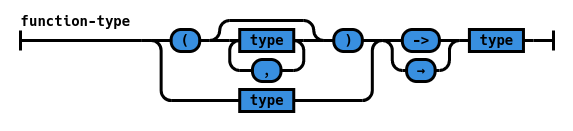
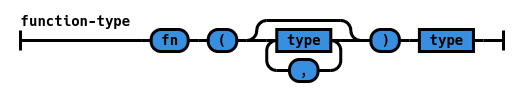
introduce 'fn' for all function types

Changed region(s): [[0.0306, 0.0891, 0.979, 0.8911]]

diff --git a/part1-zilch.tex b/part1-zilch.tex
@@ -463,7 +463,7 @@ Because functions are first-class in Zilch, both function bindings defined below
 \noindent\begin{minted}{\zilchlexer}
   def const(x : u64, y : u64) : u64 := x
   -- is exactly the same as
-  def const : (u64, u64) -> u64 := fn(x, y) x
+  def const : fn(u64, u64) u64 := fn(x, y) x
 \end{minted}
 \vspace*{\baselineskip}
 
@@ -549,9 +549,9 @@ Such common interface can be used by referencing one of the functions defined by
 For a concrete example, see this example defining a type class for mappeable objects:
 
 \noindent\begin{minted}{\zilchlexer}
-  class Mappeable(f : type -> type) :=
+  class Mappeable(f : fn(type) type) :=
     -- Provides a way to map a value behind a container type through a pure function.
-    def{a, b} map(f : a -> b, x : f a) : f b
+    def{a, b} map(f : fn(a) b, x : f a) : f b
 \end{minted}
 \vspace*{\baselineskip}
 
@@ -559,8 +559,8 @@ Note that defining this type class is mainly equivalent to creating a record ske
 So the type class defined above is really not that much different from this:
 
 \noindent\begin{minted}{\zilchlexer}
-  record Mappeable(f : type -> type) :=
-    map : forall(a, b) (a -> b, f a) -> f b
+  record Mappeable(f : fn(type) type) :=
+    map : forall(a, b) fn(fn(a) b, f a) f b
 \end{minted}
 
 \begin{figure}[H]
@@ -687,4 +687,4 @@ All imports are qualified, unless when \verb|open|ed.
   \label{fig:zilch-grammar-modules-importgrammar}
 \end{figure}
 
-\chapter{Types at various levels}\label{chap:zilch-types}
+\chapter{Static semantics}\label{chap:zilch-staticsem}

diff --git a/railroad-diagrams.py b/railroad-diagrams.py
@@ -1409,25 +1409,13 @@ def zilch_constrained_type():
 
 def zilch_function_type():
 	inner = Sequence(
-		Choice(
-			0,
-			Sequence(
-				Terminal('('),
-				ZeroOrMore(
-					NonTerminal('type'),
-					Terminal(',')
-				),
-				Terminal(')')
-			),
-			Sequence(
-				NonTerminal('type')
-			)
+		Terminal('fn'),
+		Terminal('('),
+		ZeroOrMore(
+			NonTerminal('type'),
+			Terminal(',')
 		),
-		Choice(
-			0,
-			Terminal('->'),
-			Terminal('→')
-		),
+		Terminal(')'),
 		NonTerminal('type')
 	)
 
@@ -1490,23 +1478,13 @@ def zilch_kind():
 		Terminal('type'),
 		Group(
 			Sequence(
-				Choice(
-					0,
-					Sequence(
-						Terminal('('),
-						ZeroOrMore(
-							NonTerminal('kind'),
-							Terminal(',')
-						),
-						Terminal(')')
-					),
-					NonTerminal('kind')
+				Terminal('fn'),
+				Terminal('('),
+				ZeroOrMore(
+					NonTerminal('kind'),
+					Terminal(',')
 				),
-				Choice(
-					0,
-					Terminal('->'),
-					Terminal('→')
-				),
+				Terminal(')'),
 				NonTerminal('kind')
 			),
 			'type-level function'
@@ -1627,4 +1605,4 @@ def zilch_meta_specifier():
 	return mk_diagram2('meta-specifier', inner)
 
 
-zilch_keywords().writeSvg(sys.stdout.write)
+zilch_function_type().writeSvg(sys.stdout.write)
